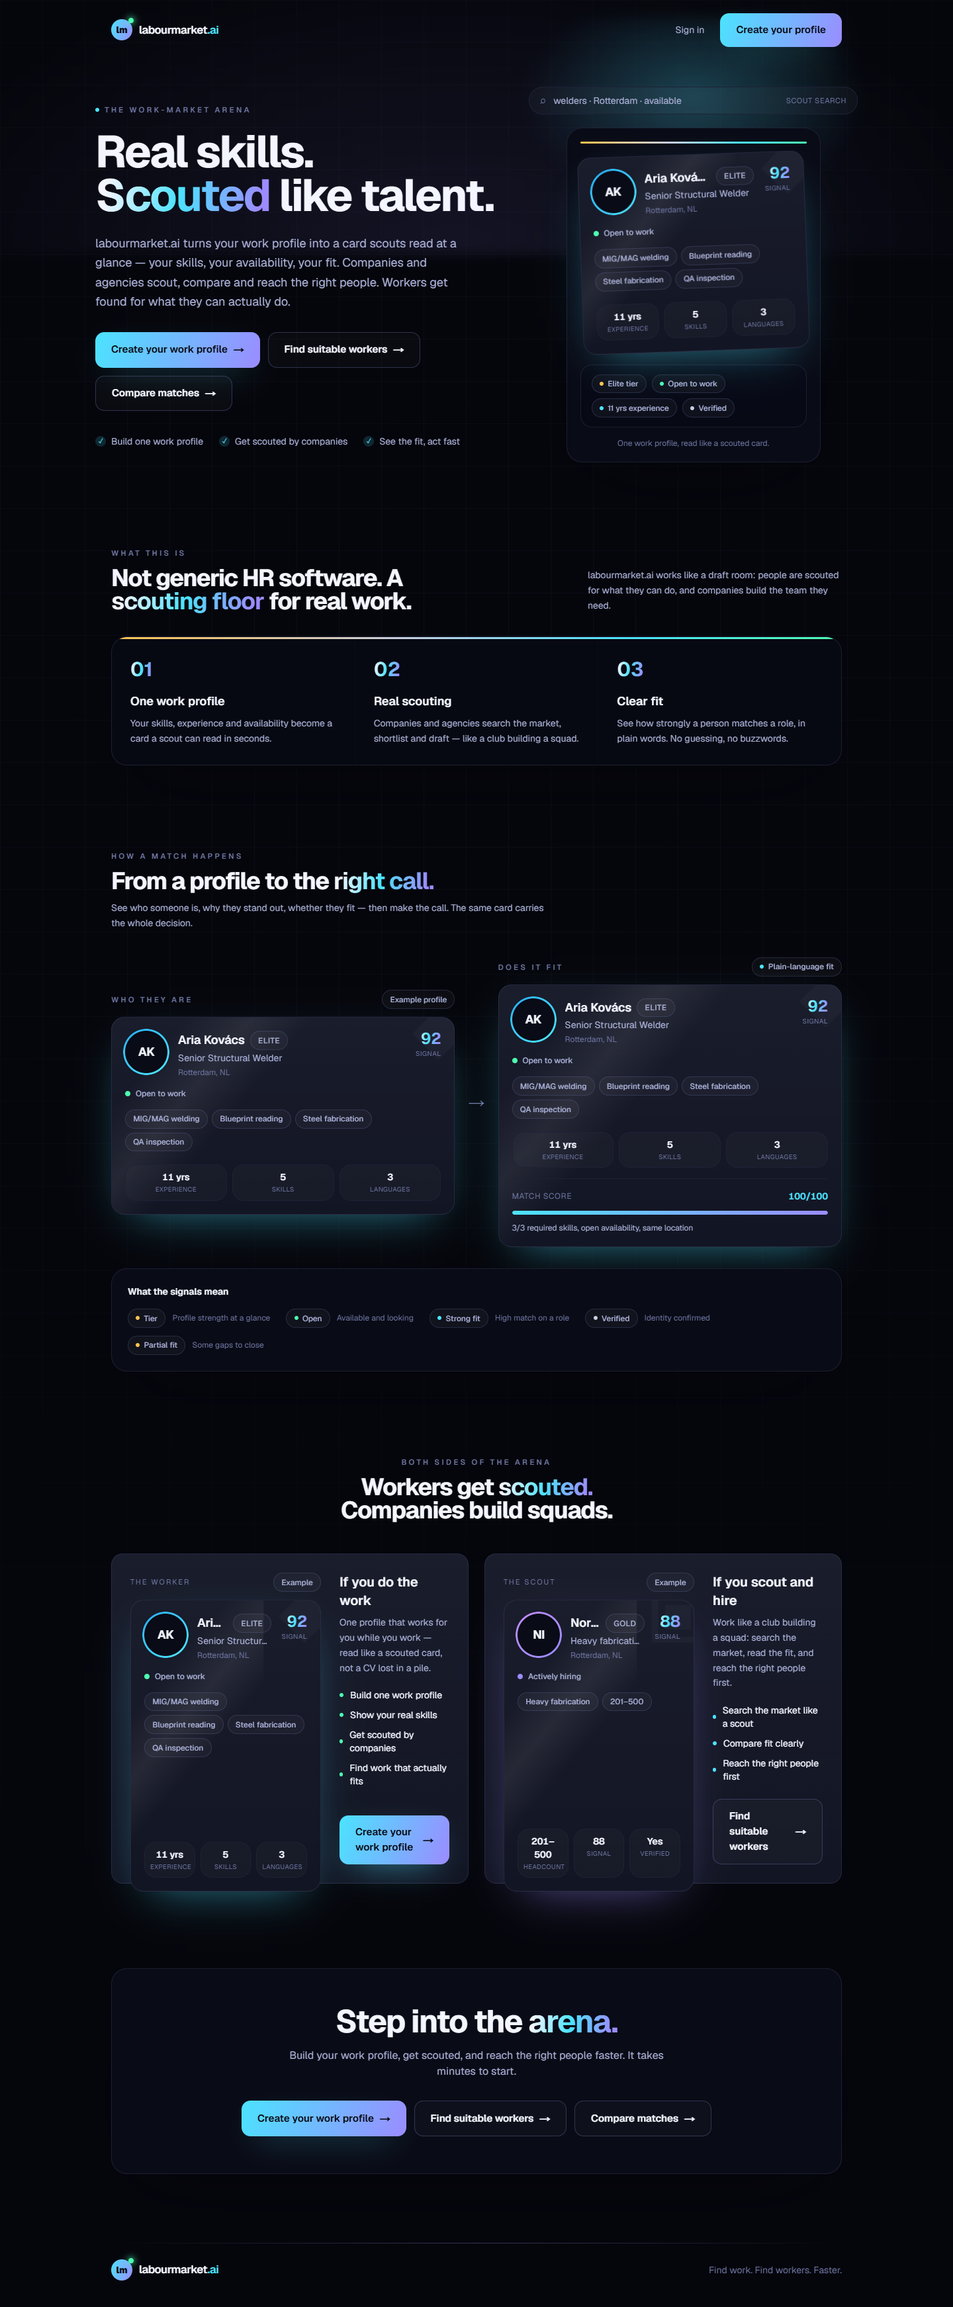
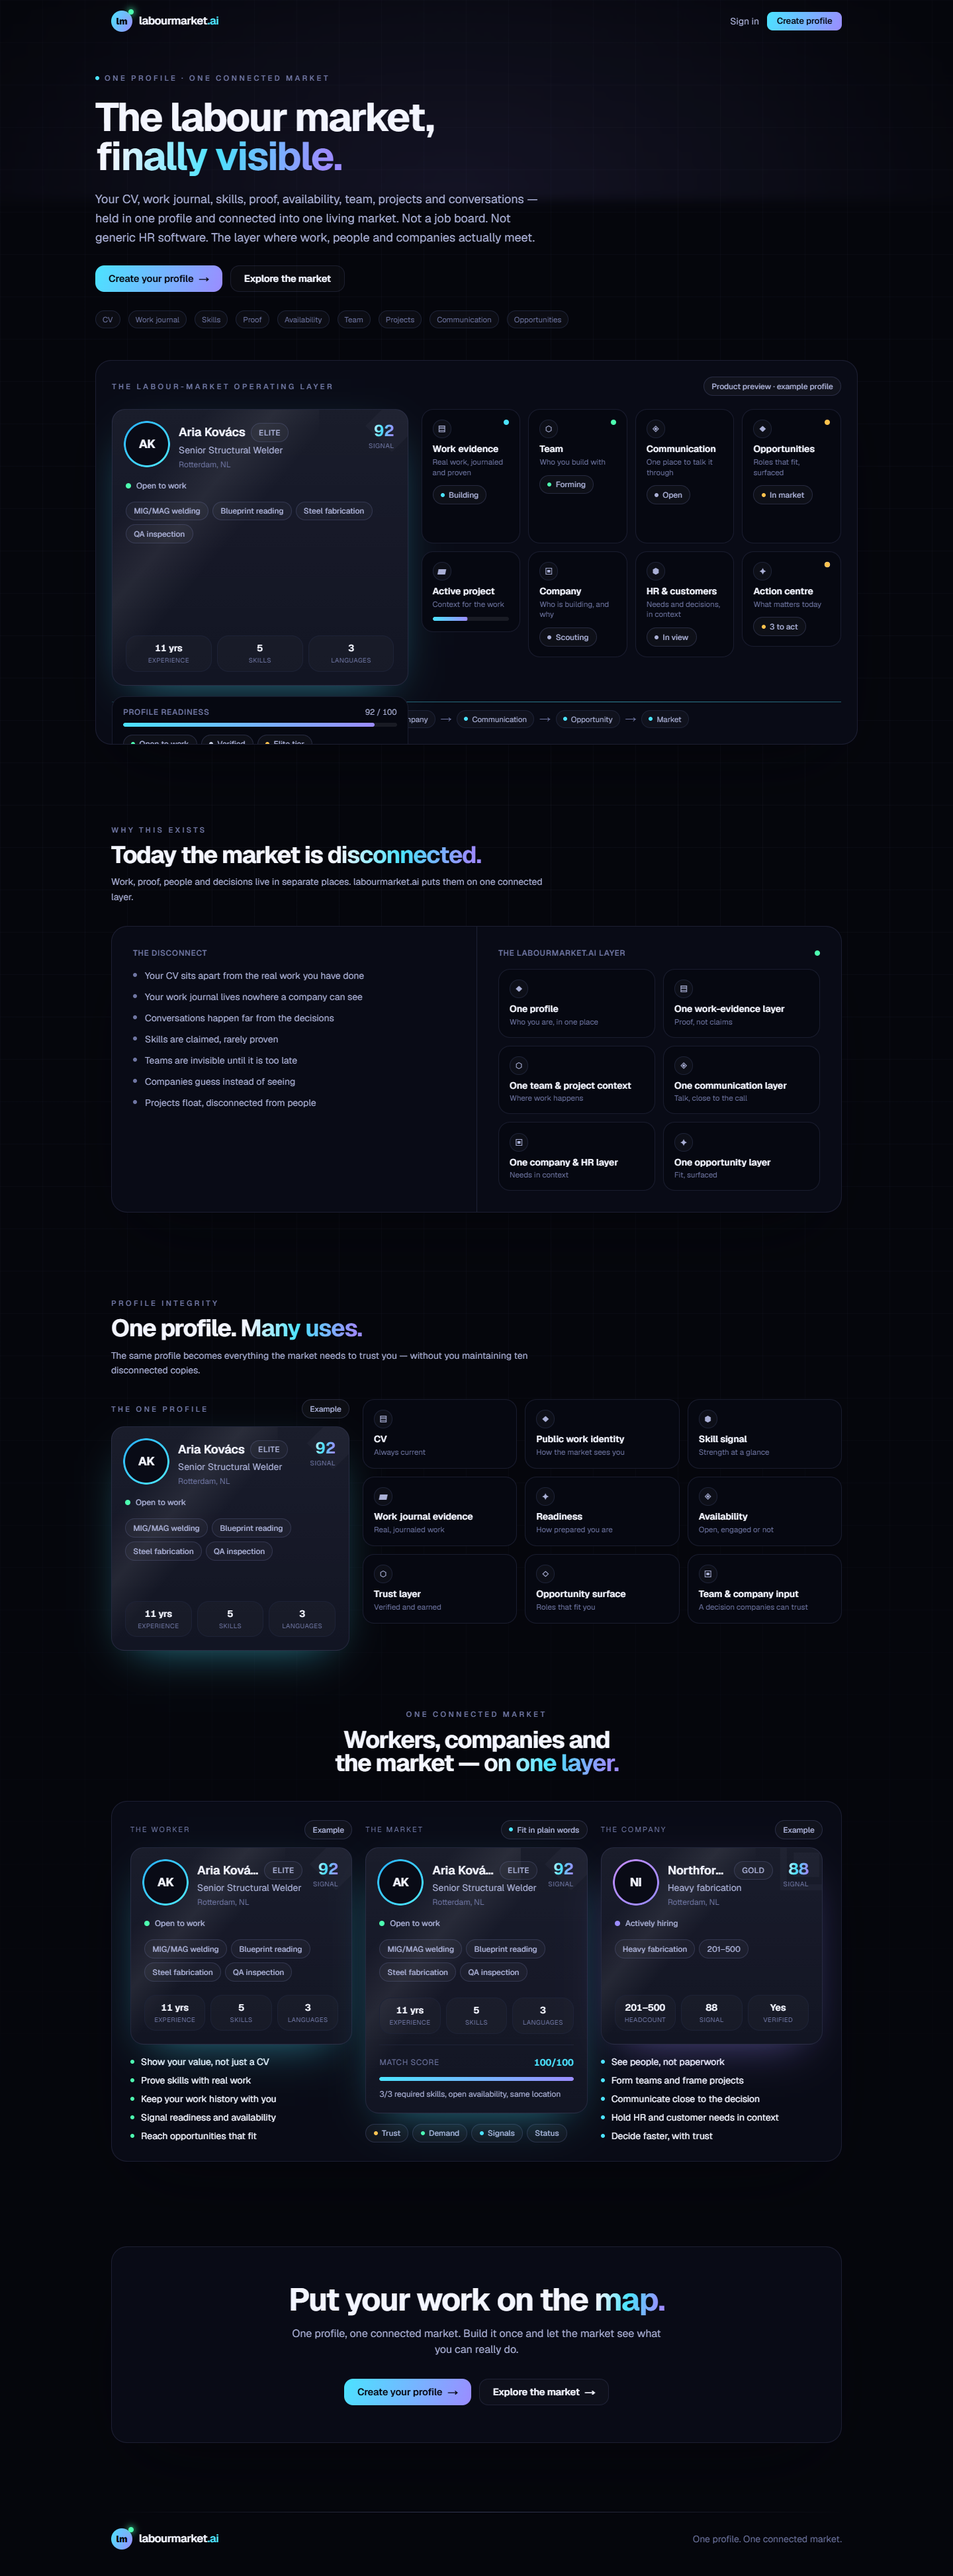
docs(review): refresh owner-review artifacts for living-market landing v3
Fresh desktop/tablet/mobile screenshots of the rebuilt landing (commit
dffe9b6) + updated OWNER-REVIEW.html and PROOF.txt. Captured from local
production server (Vercel preview is SSO-gated). No product/route/guard
change; no merge, no deploy, no main, no Vercel settings touched.

diff --git a/review/artifacts/OWNER-REVIEW.html b/review/artifacts/OWNER-REVIEW.html
@@ -3,78 +3,77 @@
 <head>
 <meta charset="utf-8" />
 <meta name="viewport" content="width=device-width, initial-scale=1" />
-<title>Owner Visual Review — labourmarket.ai PR #1 (premium landing v1)</title>
+<title>Owner Visual Review — labourmarket.ai PR #1 (living-market landing v3)</title>
 <style>
   :root { color-scheme: dark; }
   * { box-sizing: border-box; }
-  body {
-    margin: 0; padding: 2.5rem 1.5rem 4rem;
-    background: #05060c; color: #f3f5ff;
-    font: 15px/1.6 system-ui, -apple-system, Segoe UI, sans-serif;
-  }
+  body { margin: 0; padding: 2.5rem 1.5rem 4rem; background: #05060c;
+    color: #f3f5ff; font: 15px/1.6 system-ui, -apple-system, Segoe UI, sans-serif; }
   .wrap { max-width: 1100px; margin: 0 auto; }
   h1 { font-size: 1.7rem; letter-spacing: -0.02em; margin: 0 0 .35rem; }
-  h2 { font-size: 1.05rem; margin: 2.4rem 0 .9rem; color: #4be3ff;
+  h2 { font-size: 1.02rem; margin: 2.4rem 0 .9rem; color: #4be3ff;
        text-transform: uppercase; letter-spacing: .16em; }
   p { color: #aab0d6; }
   a { color: #4be3ff; }
   code { background: #0e1120; padding: .12rem .4rem; border-radius: 5px;
-         font-family: ui-monospace, monospace; font-size: .86em; color: #f3f5ff; }
+    font-family: ui-monospace, monospace; font-size: .86em; color: #f3f5ff; }
   .meta { color: #6f76a3; font-size: .9rem; }
-  .panel {
-    background: #0e1120; border: 1px solid #1d2236;
-    border-radius: 14px; padding: 1.1rem 1.3rem; margin-top: .8rem;
-  }
+  .panel { background: #0e1120; border: 1px solid #1d2236;
+    border-radius: 14px; padding: 1.1rem 1.3rem; margin-top: .8rem; }
   .panel b { color: #f3f5ff; }
   .grid { display: grid; gap: 1.1rem; grid-template-columns: repeat(3, 1fr); }
   @media (max-width: 820px) { .grid { grid-template-columns: 1fr; } }
   figure { margin: 0; }
   figcaption { margin-top: .5rem; font-size: .85rem; color: #aab0d6; }
   figcaption b { color: #f3f5ff; }
-  .shot {
-    display: block; border: 1px solid #1d2236; border-radius: 12px;
-    overflow: hidden; background: #090b16;
-  }
+  .shot { display: block; border: 1px solid #1d2236; border-radius: 12px;
+    overflow: hidden; background: #090b16; }
   .shot img { display: block; width: 100%; height: 360px; object-fit: cover;
-              object-position: top; }
-  ul { color: #aab0d6; padding-left: 1.1rem; }
-  li { margin: .3rem 0; }
+    object-position: top; }
+  ul { color: #aab0d6; padding-left: 1.1rem; } li { margin: .3rem 0; }
   .ok { color: #4dffb0; } .warn { color: #ffc24d; }
   .foot { margin-top: 3rem; color: #6f76a3; font-size: .82rem;
-          border-top: 1px solid #1d2236; padding-top: 1rem; }
+    border-top: 1px solid #1d2236; padding-top: 1rem; }
 </style>
 </head>
 <body>
 <div class="wrap">
 
-  <h1>Owner Visual Review — premium labour-market landing v1</h1>
+  <h1>Owner Visual Review — living labour-market landing v3</h1>
   <p class="meta">labourmarket.ai · PR #1 · generated 2026-05-19 · review-only evidence</p>
 
   <h2>Branch / head proof</h2>
   <div class="panel">
     <p style="margin:0">
-      Repo: <code>C:\Users\Mano\Documents\labourmarketai</code> →
-      <code>github.com/bandymuks1-stack/labourmarketai</code><br/>
-      Branch: <code>feat/labourmarketai-foundation-v1</code><br/>
-      Reviewed commit (HEAD): <code>2864b206ce2a4025045ccba36ca4cfe908697fca</code><br/>
-      Working tree at capture: <b class="ok">clean</b><br/>
+      Repo: <code>C:\Users\Mano\Documents\labourmarketai</code> (correct no-dot repo)
+      → <code>github.com/bandymuks1-stack/labourmarketai</code><br/>
+      Branch: <code>feat/labourmarketai-foundation-v1</code> (PR #1 feature branch only)<br/>
+      Rebuild commit: <code>dffe9b635bd204e440d3c8257a672f216160fe20</code><br/>
+      Baseline parent: <code>8ae62890cb5d51ddd5ed4bed1a894edfecb73f58</code><br/>
       <code>origin/main</code>: <code>5e5998906da9184e892eabd6889488d7d119f831</code>
-      — <b class="ok">unchanged neutral scaffold</b> (not contacted, not changed)
+      — <b class="ok">unchanged neutral scaffold</b> (not contacted, not changed)<br/>
+      Contaminated dot-path repo <code>...\labourmarket.ai</code> —
+      <b class="ok">not touched</b>
     </p>
   </div>
 
   <h2>Localhost capture proof</h2>
   <div class="panel">
     <p style="margin:0">
-      The Vercel preview for this branch is SSO-protected (HTTP 401 to the
-      public), so screenshots were taken from a local production server of the
-      exact reviewed commit:<br/><br/>
-      Command: <code>next build</code> → <code>next start -p 3120</code><br/>
-      URL: <code>http://localhost:3120/</code> → <b class="ok">HTTP 200</b><br/>
-      Served page title: <code>labourmarket.ai — Find work. Find workers. Faster.</code><br/>
-      Engine: Playwright <code>--channel=chrome</code> (installed Chrome), full-page.<br/>
+      Vercel branch preview is SSO-protected (HTTP 401 public), so screenshots
+      were taken from a local production server of the rebuilt commit:<br/><br/>
+      <code>next build</code> → <code>next start -p 3130</code> →
+      <code>http://localhost:3130/</code> → <b class="ok">HTTP 200</b><br/>
+      Rebuilt v3 markers present: hero <i>"finally visible"</i> + <i>"operating
+      layer"</i>.<br/>
+      Engine: Playwright <code>--channel=chrome</code> (installed Chrome),
+      full-page. Server stopped after capture.<br/>
+      <span class="warn">Owner-review note:</span> the browser tab
+      <code>&lt;title&gt;</code> still carries the prior site tagline
+      (metadata in <code>site.ts</code>); intentionally left unchanged to keep
+      this update scoped to the landing only.<br/>
       No production, deploy, Vercel setting, or <code>main</code> was contacted
-      or changed to produce this artifact.
+      or changed.
     </p>
   </div>
 
@@ -82,54 +81,60 @@
   <div class="grid">
     <figure>
       <a class="shot" href="desktop.png" target="_blank" rel="noopener">
-        <img src="desktop.png" alt="Landing — desktop 1440px" />
+        <img src="desktop.png" alt="Living-market landing — desktop 1440px" />
       </a>
       <figcaption><b>Desktop</b> — 1440 × 900, full page</figcaption>
     </figure>
     <figure>
       <a class="shot" href="tablet.png" target="_blank" rel="noopener">
-        <img src="tablet.png" alt="Landing — tablet 834px" />
+        <img src="tablet.png" alt="Living-market landing — tablet 834px" />
       </a>
       <figcaption><b>Tablet</b> — 834 × 1112, full page</figcaption>
     </figure>
     <figure>
       <a class="shot" href="mobile.png" target="_blank" rel="noopener">
-        <img src="mobile.png" alt="Landing — mobile 390px" />
+        <img src="mobile.png" alt="Living-market landing — mobile 390px" />
       </a>
       <figcaption><b>Mobile</b> — 390 × 844, full page</figcaption>
     </figure>
   </div>
 
-  <h2>What the owner should inspect</h2>
+  <h2>What changed (v1 → v3) — what the owner should inspect</h2>
   <div class="panel">
     <ul>
-      <li><b>Premium direction held:</b> dark navy/graphite/black base, strong
-        contrast, restrained electric accents, gold/silver/blue/green signal
-        chips — reads like a scouting / draft arena, not a generic HR template
-        or card-wall.</li>
-      <li><b>Information hierarchy:</b> hero (what it is) → "scouting floor"
-        band (why it matters) → "from a profile to the right call" with the
-        fit + signal legend (does it fit) → "step into the arena" CTA (what to
-        do next). Confirm this order reads clearly.</li>
-      <li><b>Worker = scouted card, company = scout/club:</b> the worker is
-        staged as a player/candidate card; the company side reads as a
-        squad-builder. One profile/card concept, reused — not duplicated.</li>
-      <li><b>Honesty:</b> example entities are tagged <b>"Example"</b>; signal
-        chips (tier / open / experience / verified) come from the sample
-        profile's real attributes — no invented counts, no AI/market claims.</li>
-      <li><b>Responsiveness:</b> tablet and mobile collapse to single-column
-        cleanly; the scout card, signal rail and two-side panels stay readable
-        with no overflow or dead space.</li>
-      <li><b>Copy:</b> human, action-oriented; no placeholder/lorem text, no
-        technical/architecture wording in public copy.</li>
+      <li><b>Message restored:</b> from "find work / find workers" back to the
+        completeness idea — one profile carrying CV, work evidence, skills,
+        proof, availability, team, projects and conversations into one
+        connected market. Hero: <i>"The labour market, finally visible."</i></li>
+      <li><b>Living system feel:</b> the static text+card hero is replaced by a
+        connected system scene — the one profile card at the centre with the
+        connected layers (work evidence, team, project, communication, company,
+        HR &amp; customers, action centre, opportunities) and the
+        worker → profile → … → market path; restrained pulse / glow /
+        shimmer / progress motion (reduced-motion safe).</li>
+      <li><b>Completeness/integrity sections:</b> "the market is disconnected →
+        the connected layer" and "one profile, many uses" make the labour-
+        market integrity idea explicit; "workers, companies and the market on
+        one layer" shows both sides as one connected layer, not a card grid.</li>
+      <li><b>Mobile:</b> compact header, small top CTA, stacked full-width but
+        not bulky buttons, staged scene with fewer modules, no horizontal
+        overflow, controlled vertical rhythm — intentionally designed, not a
+        squeezed desktop.</li>
+      <li><b>Buttons:</b> refined proportions (less chunky), new compact
+        variant for the header, focus ring, clear primary vs lighter secondary.</li>
+      <li><b>Honesty:</b> example surfaces tagged <b>"Example" / "Product
+        preview"</b>; the only number is the example profile's own readiness
+        signal; no fake counts, customers, AI or matching claims.</li>
     </ul>
   </div>
 
   <p class="foot">
-    Review-only artifact. No product logic, routes, copy strategy, or guards
-    were changed to produce it. No merge, no deploy, no Vercel settings change.
-    All guards pass (<code>typecheck</code>, <code>lint</code>,
-    <code>check</code>, <code>build</code>) at the reviewed commit.
+    Review-only. Landing + landing components + token/CSS only. No new routes,
+    no auth/admin/app-flow change, no backend, no payment, no fake claims, no
+    duplicate profile/avatar/player-card/communication concept. No merge, no
+    deploy, no main push, no Vercel settings change. Guards green
+    (typecheck / lint / check / build) at commit
+    <code>dffe9b6</code>.
   </p>
 
 </div>
